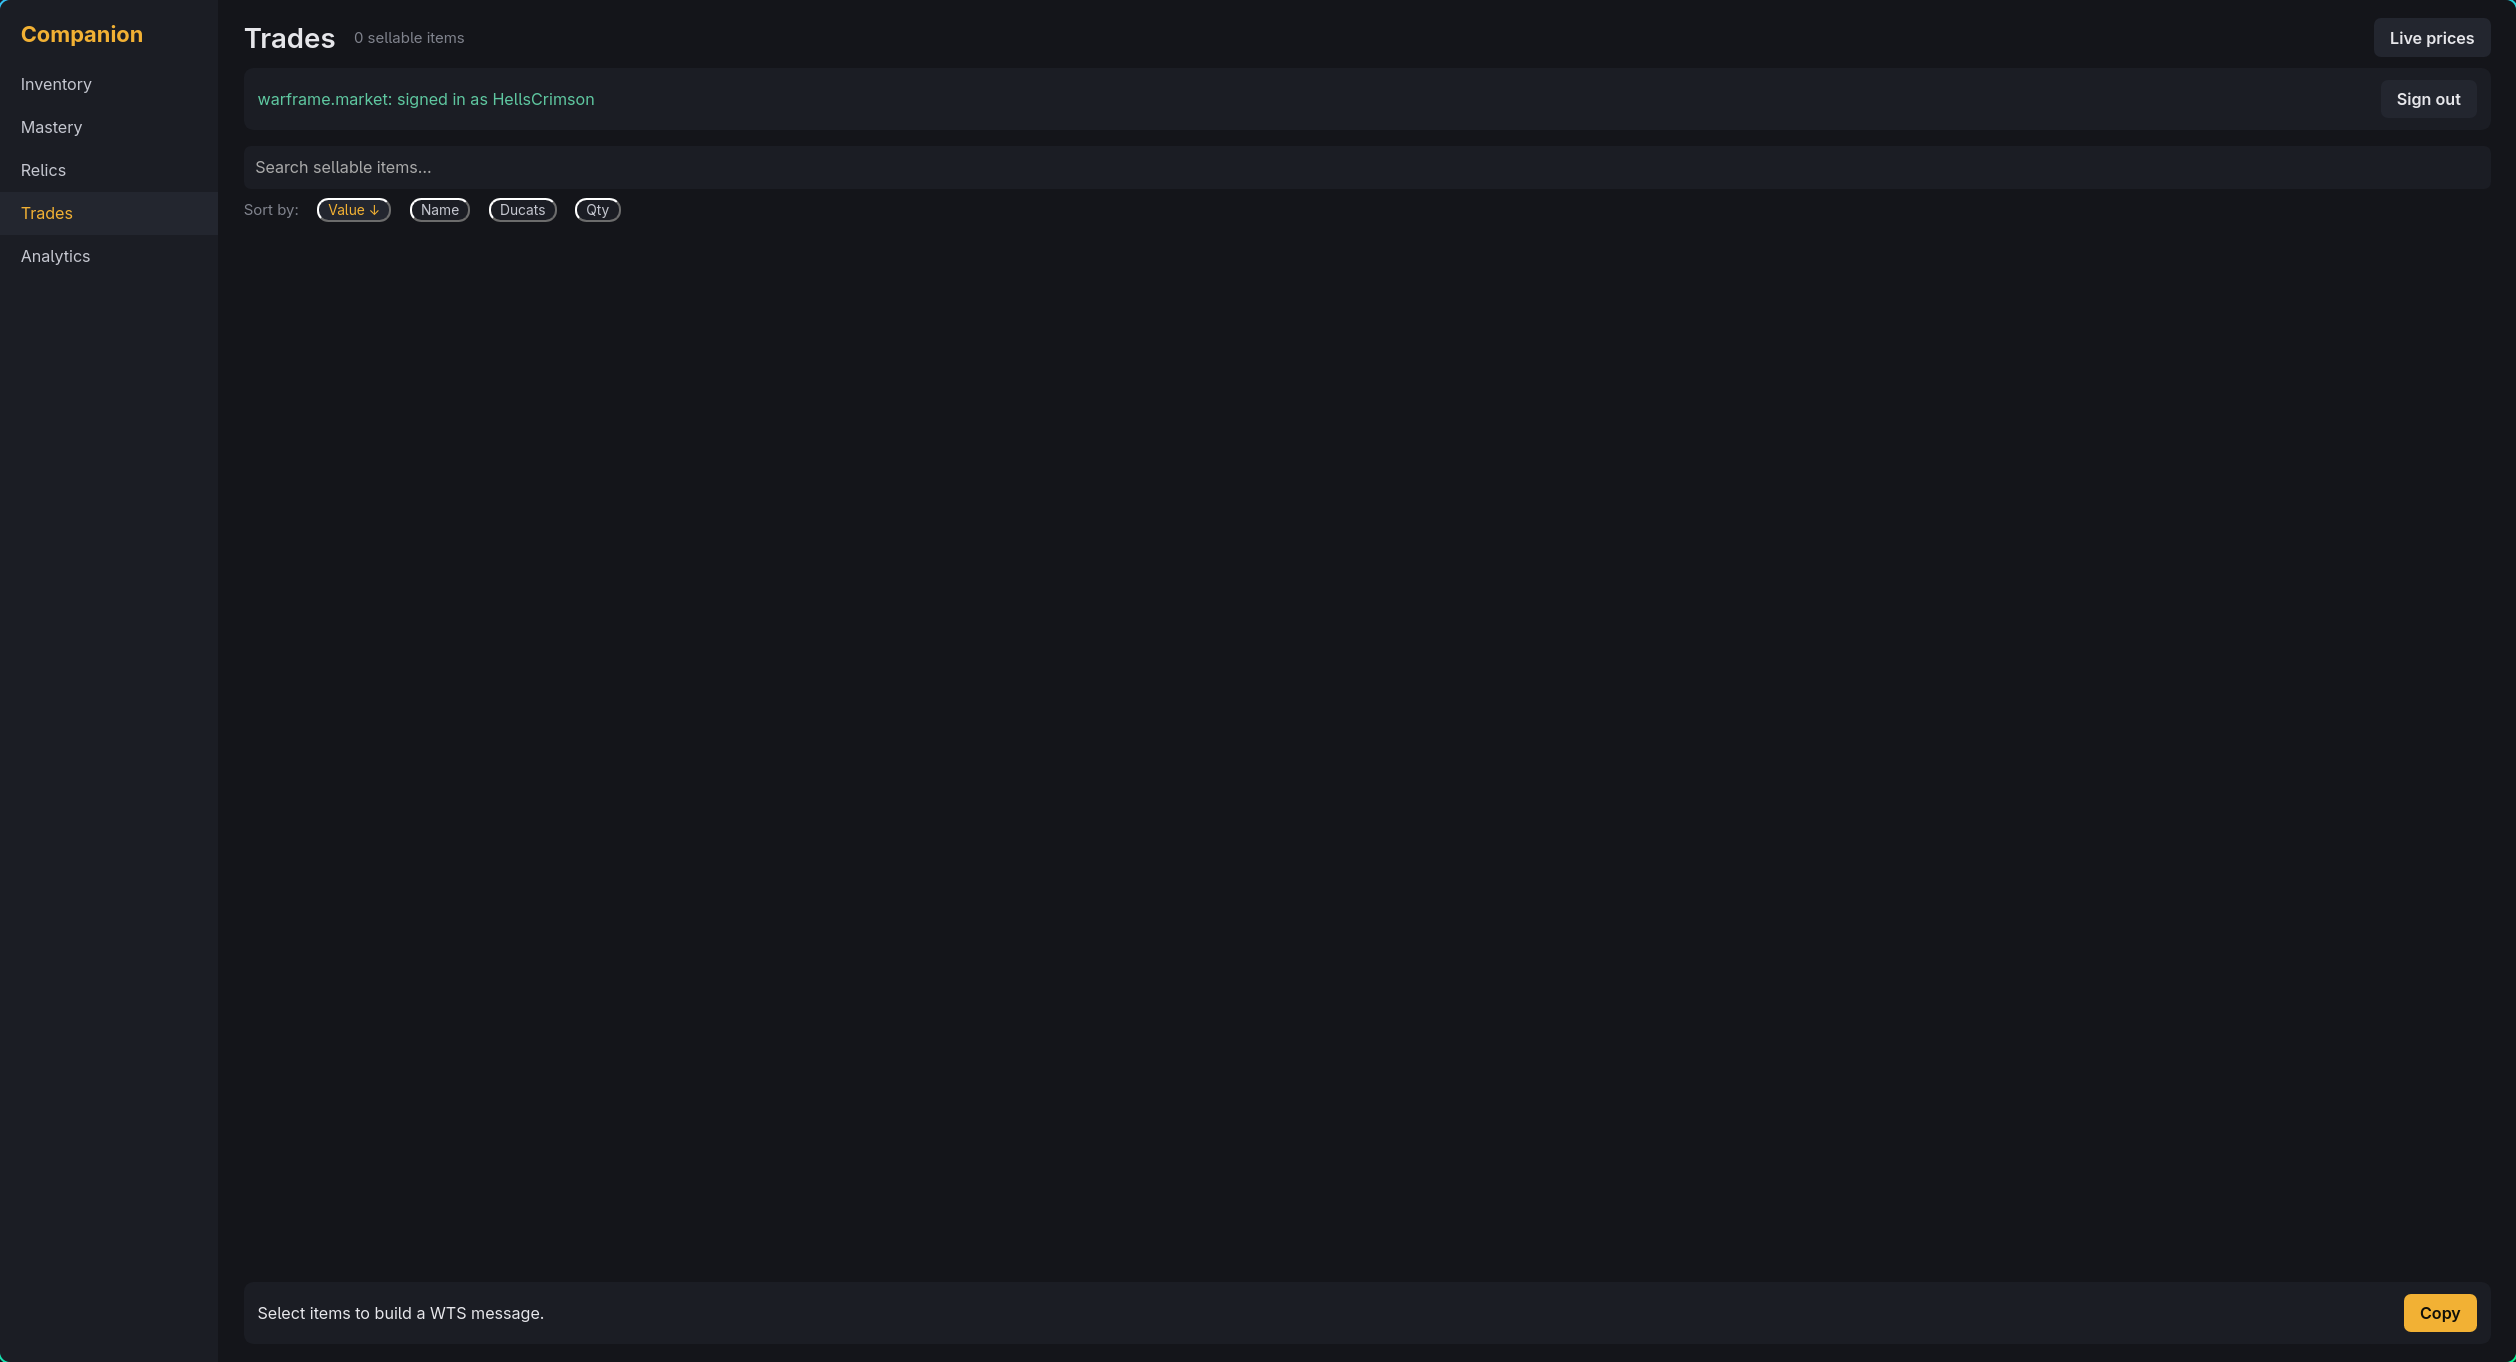
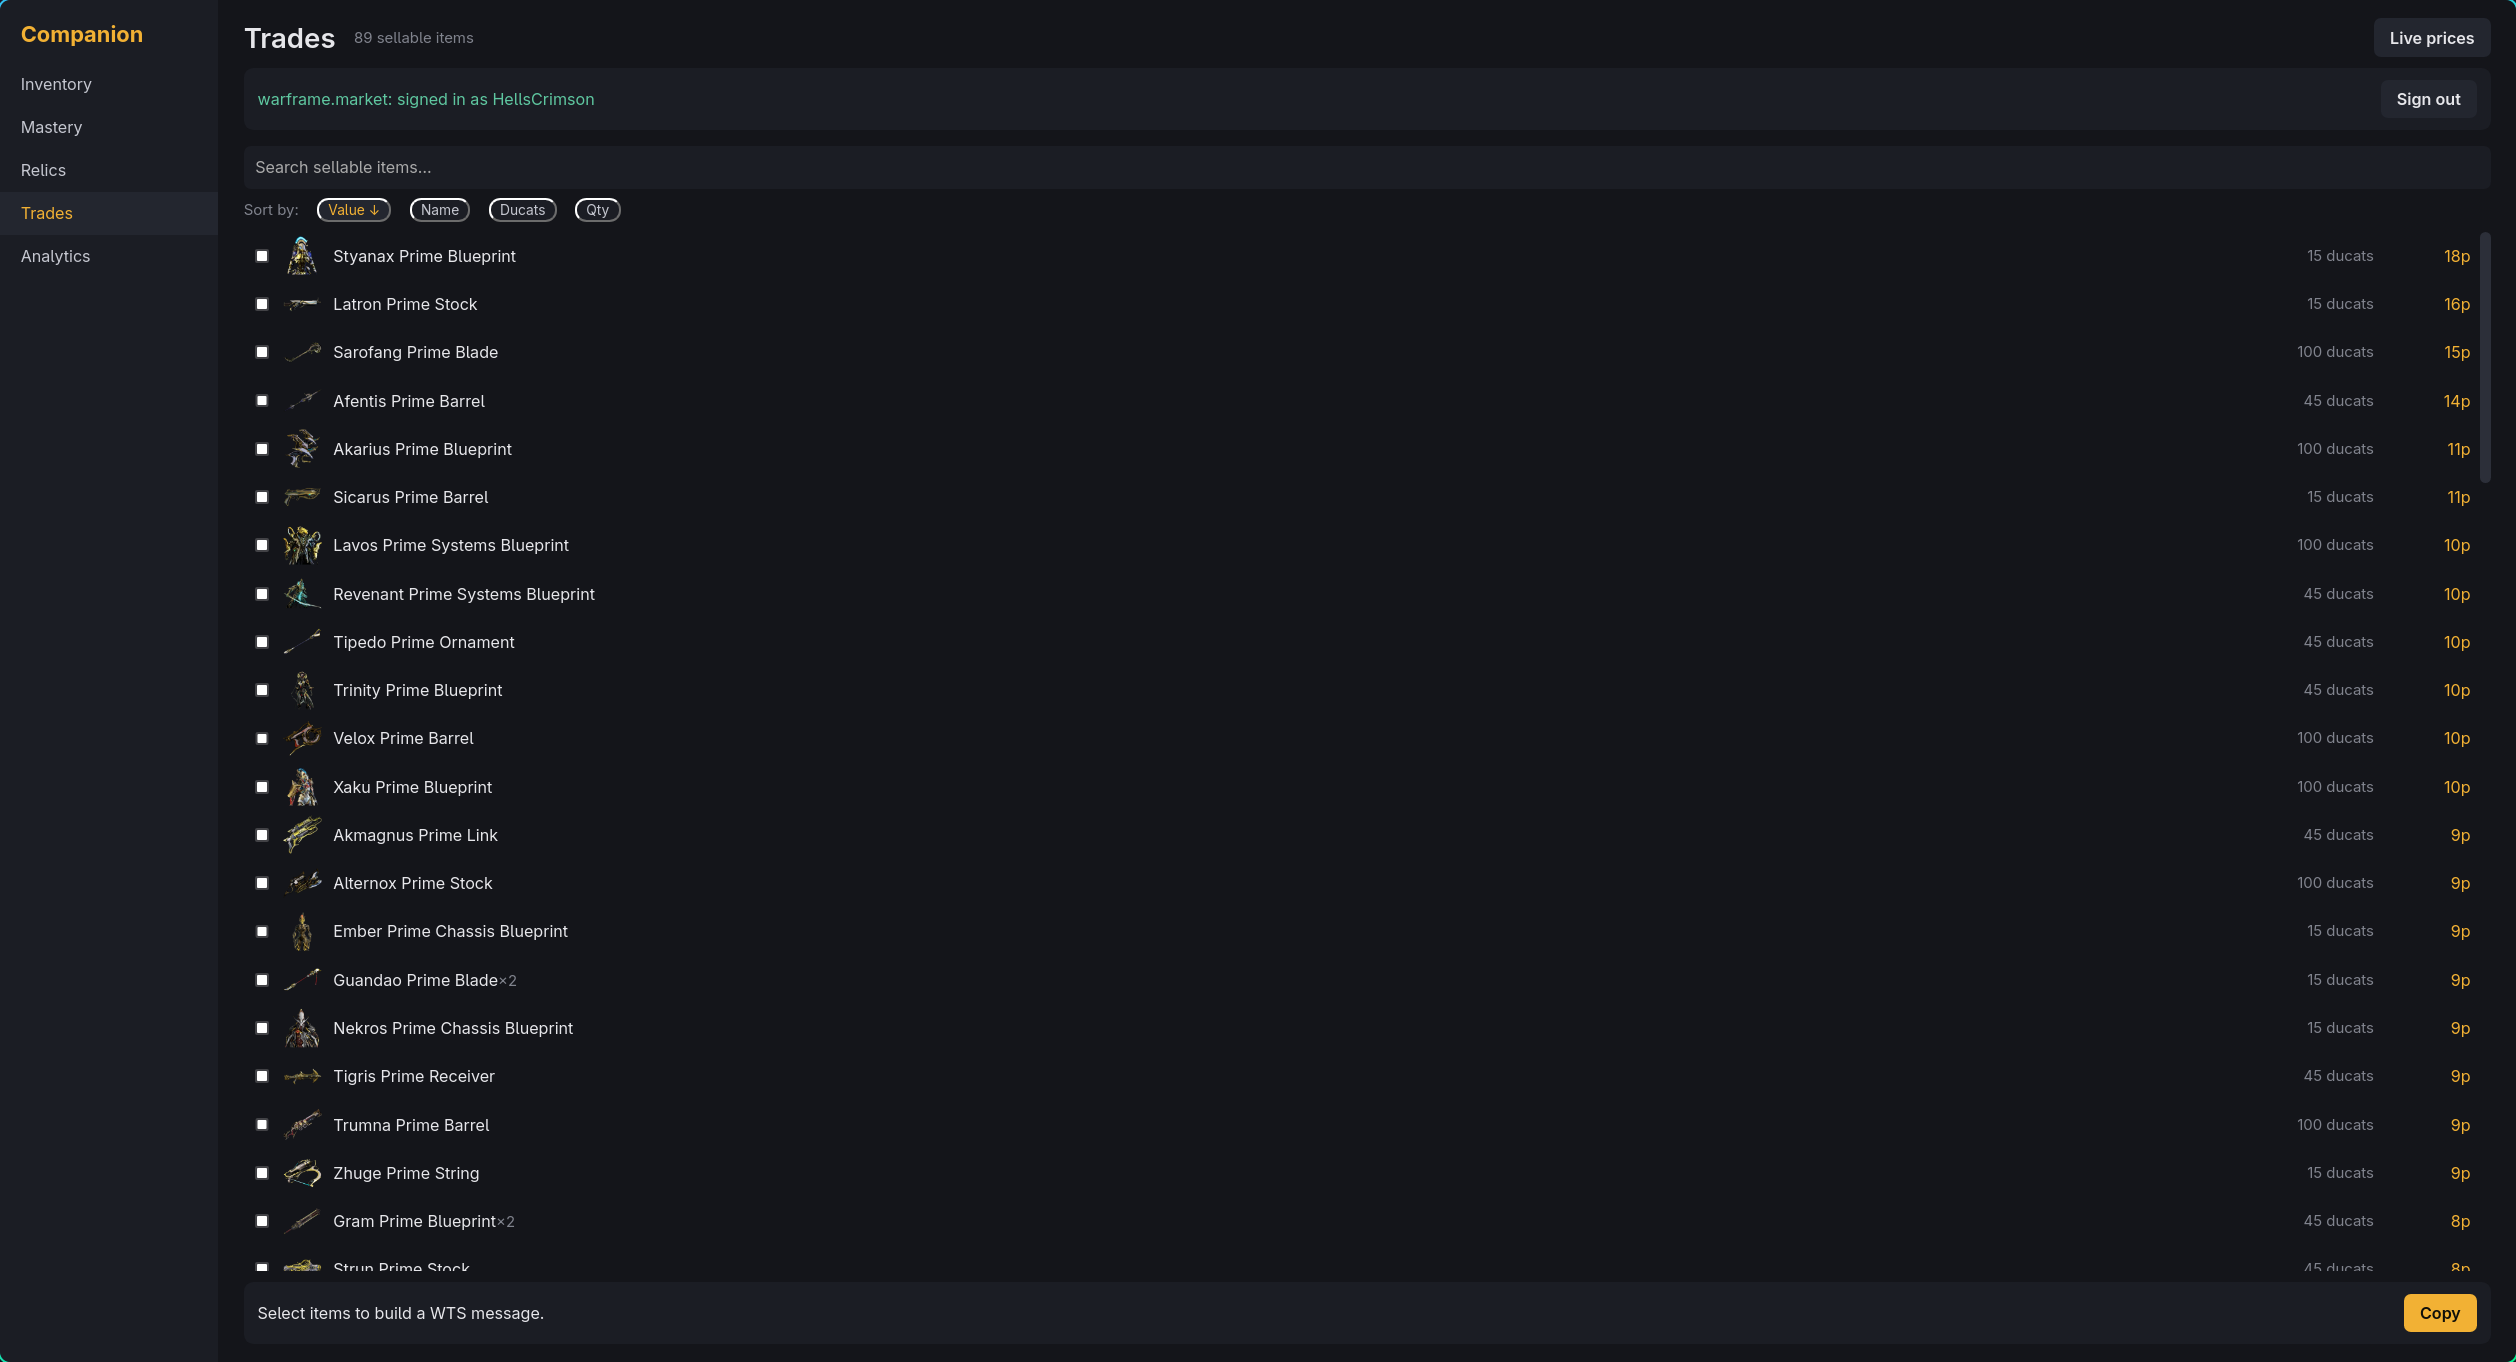
feat: also add trades tab to readme

diff --git a/README.md b/README.md
@@ -17,9 +17,11 @@ relic drop tables, trade analytics, and warframe.market sell-order tooling.
 | --- | --- |
 | ![Inventory tab](docs/screenshots/inventory.png) | ![Mastery tab](docs/screenshots/mastery.png) |
 
-| Relics | Analytics |
+| Relics | Trades |
 | --- | --- |
-| ![Relics tab](docs/screenshots/relics.png) | ![Analytics tab](docs/screenshots/analytics.png) |
+| ![Relics tab](docs/screenshots/relics.png) | ![Trades tab](docs/screenshots/trades.png) |
+
+![Analytics tab](docs/screenshots/analytics.png)
 
 ## Features
 